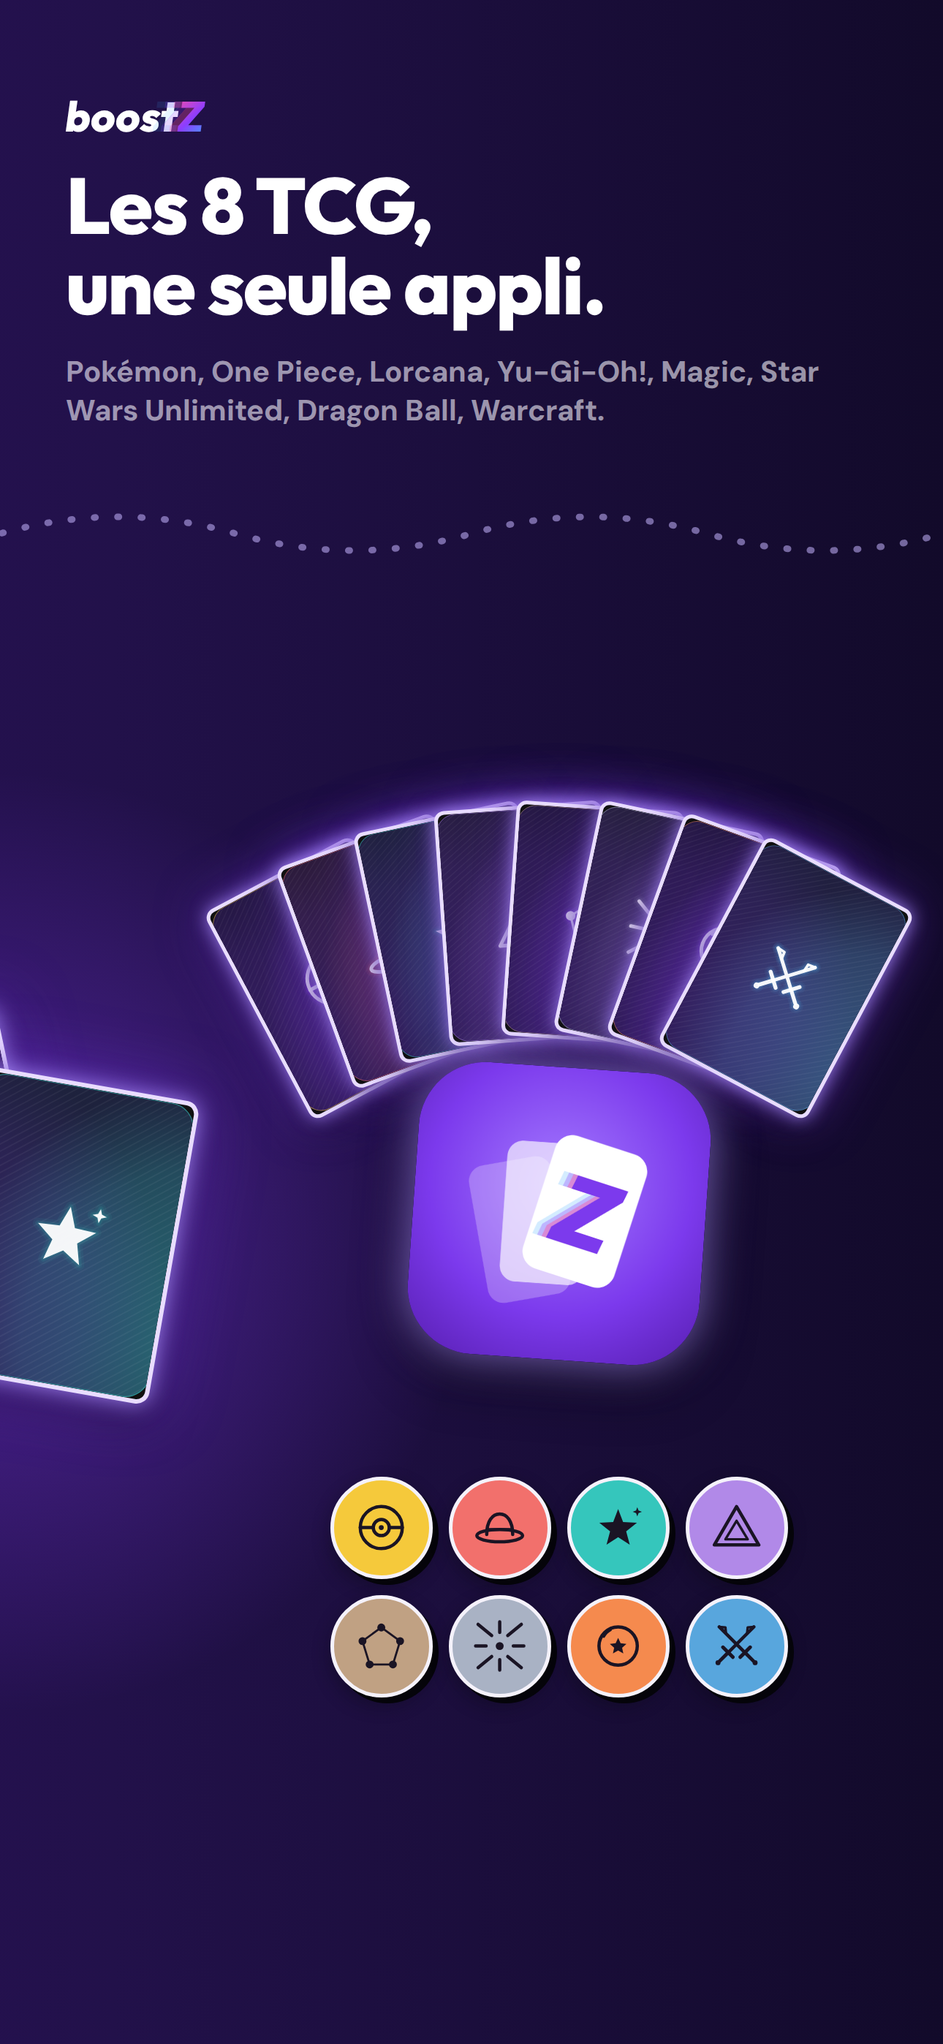
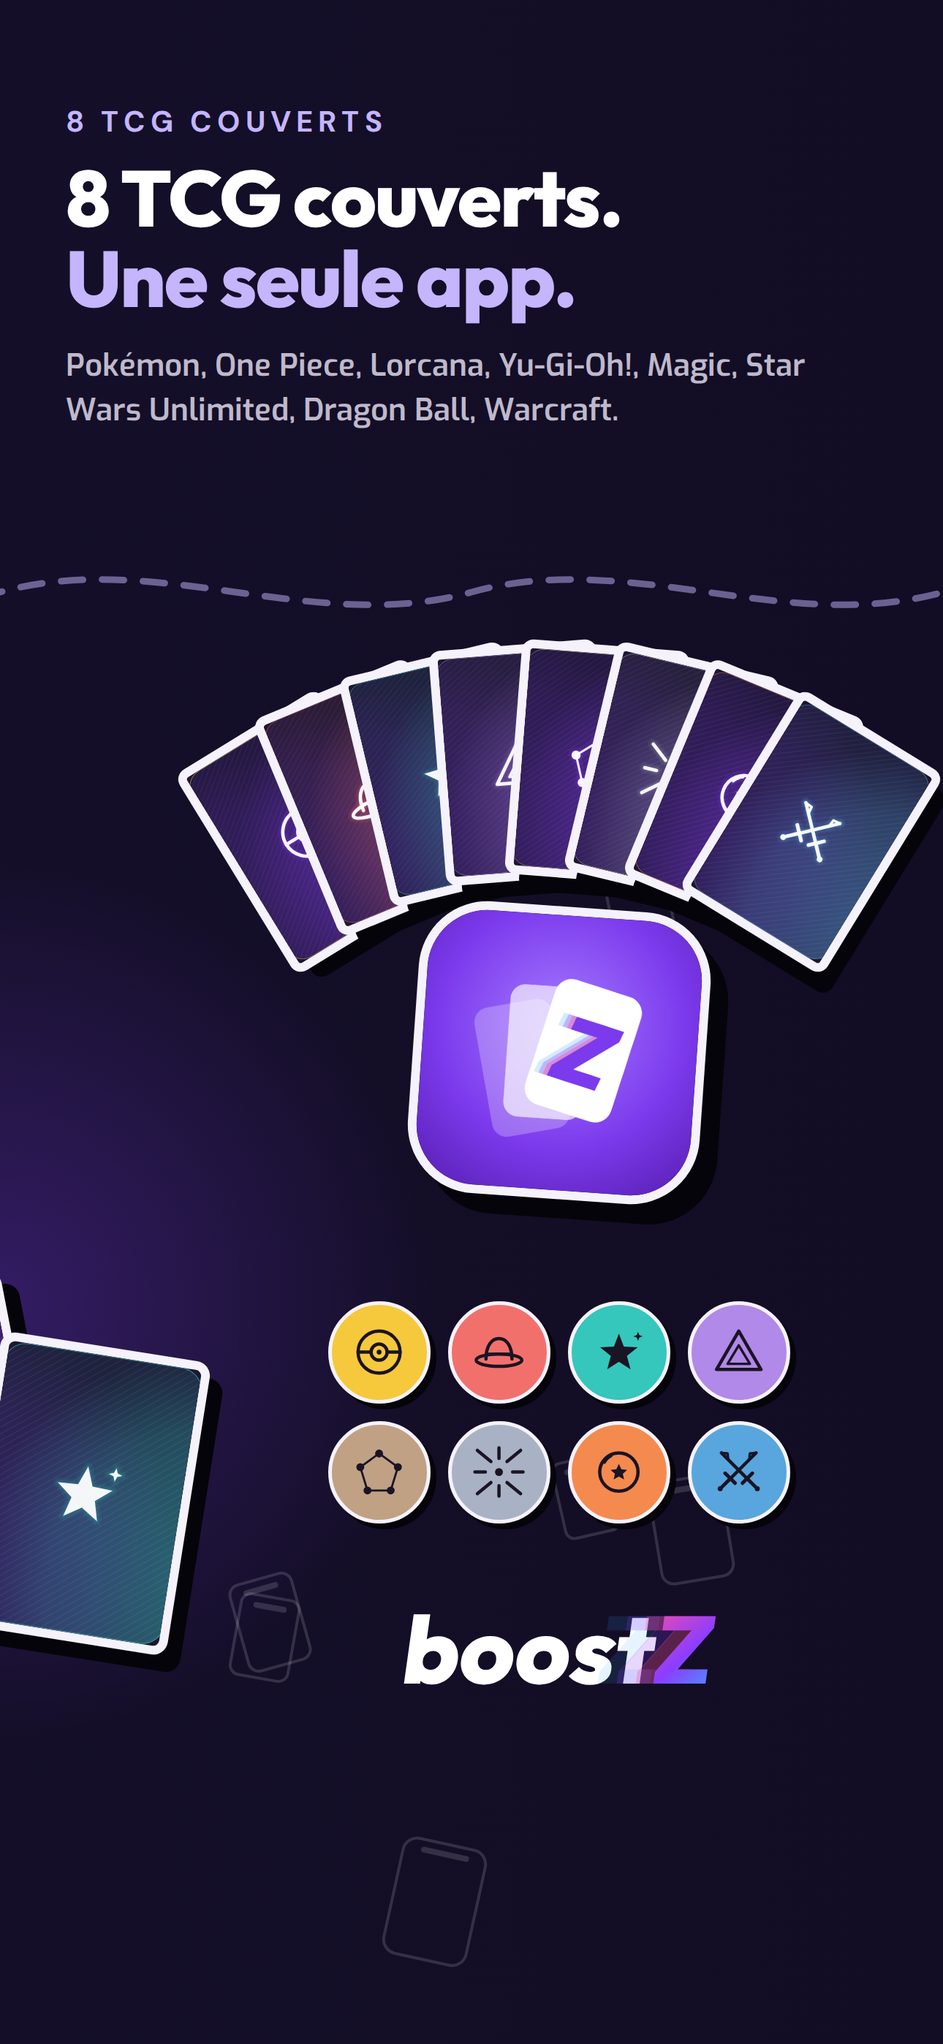
Align the store screenshots with boostz.fr's home page
TanPib asked for coherence with the site's home page and for the falling
cards of the app's login screen in the ground. Each screenshot is now
one of the site's numbered sections: its kicker in the section colour,
its title in white with the second line in the site's lavender, a line
of its copy; the phone, discs, panels and labels are stickers as on the
site; the ground carries CardRain's outlined cards across the panorama,
under the dashed wave, with the bridges kept at every second seam.

Claude-Session: https://claude.ai/code/session_01KYjmNhJZrtvo4jRtggkgV3

diff --git a/gabarits/store.html b/gabarits/store.html
@@ -23,71 +23,103 @@ document.head.insertAdjacentHTML('beforeend', `<style>
   .s { font-family: 'DM Sans'; font-weight: 700; text-align: center; }
   .hl { background: linear-gradient(120deg, #FF4FA0, #8B3DFF 55%, #3AA9FF); -webkit-background-clip: text; background-clip: text; color: transparent; }
 </style>`);
-// Layout (fourth round, 04/11/2026). TanPib: the text at the top, the phones
-// not always on the same side, and « que les 8 images se répondent ». So the
-// eight are one panorama: a continuous ground, the dashed path of our posts
-// running through all of them under the headlines, and at every second seam a
-// real card, a Boostie or card backs straddling two screenshots. The phone
-// alternates sides (left, tilted left; right, tilted right), which leaves the
-// seams with room on both sides free for those bridges.
-const PW = PLAY ? 700 : 880, PT = PLAY ? 660 : 800, N = 8;
-const PANOW = N * W;
-const phoneX = (k) => (k % 2 ? W - PW - 70 : 70), phoneR = (k) => (k % 2 ? 6 : -6);
-const FREE = (k) => (k % 2 ? 40 : W - (W - PW - 70) + 30); // left edge of the free column
-const text = (t, s) => `<div class="abs" style="left:90px;top:${PLAY ? 100 : 130}px;z-index:20">${wordmark(PLAY ? 50 : 58)}</div>
-  <div class="abs t" style="left:90px;right:90px;top:${PLAY ? 190 : 225}px;font-size:${PLAY ? 92 : 108}px;text-align:left;color:#fff;z-index:20">${t}</div>
-  <div class="abs s" style="left:90px;right:140px;top:${(PLAY ? 190 : 225) + (PLAY ? 92 : 108) * 2.1 + 30}px;font-size:${PLAY ? 34 : 40}px;line-height:1.32;text-align:left;font-weight:600;color:rgba(245,242,251,.62);z-index:20">${s}</div>`;
+// Layout (fifth round, 04/11/2026). TanPib: keep the panorama, but make it
+// coherent with boostz.fr's home page (its numbered sections, their colours,
+// titles and copy, the sticker phone and discs) and put the falling cards of
+// the app's login screen (mobile/src/components/CardRain.js: outlined cards
+// with a short bar, white at 14 %, tilted) in the ground.
+// Each screenshot is one section of the site: the kicker « 0N · SECTION » in
+// its colour, the title in white with its second line in the site's lavender,
+// one short line of the site's own copy; the phone as a sticker (white edge,
+// hard shadow), alternating sides; the eight share one ground, the rain, the
+// dashed wave, and a card, a Boostie or two card backs straddle every second seam.
+const PW = PLAY ? 620 : 760, PT = PLAY ? 720 : 880, N = 8, PANOW = N * W;
+const phoneX = (k) => (k % 2 ? W - PW - 80 : 80), phoneR = (k) => (k % 2 ? 4 : -4);
+const FREE = (k) => (k % 2 ? 50 : PW + 80 + 50);
+const TXT_BOTTOM = PT - (PLAY ? 90 : 110);
+const text = (kick, color, t, s) => `<div class="abs" style="left:90px;top:${PLAY ? 110 : 140}px;font-family:'DM Sans';font-weight:700;font-size:${PLAY ? 34 : 40}px;letter-spacing:.18em;text-transform:uppercase;color:${color};z-index:20">${kick}</div>
+  <div class="abs t" style="left:90px;right:90px;top:${PLAY ? 175 : 215}px;font-size:${PLAY ? 92 : 108}px;text-align:left;color:#fff;z-index:20">${t}</div>
+  <div class="abs" style="left:90px;right:120px;top:${(PLAY ? 175 : 215) + (PLAY ? 92 : 108) * 2.08 + 30}px;font-family:Exo;font-weight:600;font-size:${PLAY ? 36 : 42}px;line-height:1.45;color:#BFB9CB;z-index:20">${s}</div>`;
+const ACC = (x) => `<span style="color:#C4B5FD">${x}</span>`;
+const STB = PLAY ? 10 : 12, STS = PLAY ? 22 : 26; // sticker border and shadow at this scale
 const phone = (shot, k) => { const w = PW, h = w * 2.164;
-  return `<div class="abs" style="left:${phoneX(k)}px;top:${PT}px;width:${w}px;height:${h}px;transform:rotate(${phoneR(k)}deg);border-radius:${w * .13}px;background:#0B0812;border:${w * .006}px solid rgba(255,255,255,.18);box-shadow:0 ${w * .05}px ${w * .14}px rgba(11,8,18,.65);padding:${w * .026}px;z-index:5">
-    <div style="width:100%;height:100%;border-radius:${w * .105}px;overflow:hidden;background:#0B0812"><img src="shots/app-${shot}.jpg" style="width:100%;display:block"></div></div>`; };
-const glowCard = (src, x, y, w, r, z = 8) => `<div class="abs" style="left:${x}px;top:${y}px;width:${w}px;height:${w * 1.4}px;transform:rotate(${r}deg);border:${w * .022}px solid #E9DDFF;border-radius:${w * .06}px;overflow:hidden;box-shadow:0 0 ${w * .1}px rgba(167,139,250,.9), 0 0 ${w * .3}px rgba(124,58,237,.55), 0 ${w * .08}px ${w * .2}px rgba(11,8,18,.6);z-index:${z};background:#111"><img src="${src}" style="width:100%;height:100%;object-fit:cover;display:block"></div>`;
-const real = (img, x, y, w, r, z) => glowCard('assets/' + img, x, y, w, r, z);
-const dos = (g, x, y, w, r, z) => glowCard(`assets/dos-${g}.svg`, x, y, w, r, z);
-const label = (x, y, html, o = {}) => `<div class="abs ui" style="left:${x}px;top:${y}px;padding:${o.pad || '22px 34px'};background:${o.bg || '#fff'};color:${o.c || INKD};font-size:${o.fs || 46}px;border-radius:28px;box-shadow:0 0 40px rgba(124,58,237,.5), 0 18px 40px rgba(11,8,18,.4);transform:rotate(${o.r || 0}deg);white-space:nowrap;z-index:${o.z || 9}">${html}</div>`;
+  return `<div class="abs" style="left:${phoneX(k)}px;top:${PT}px;width:${w}px;height:${h}px;transform:rotate(${phoneR(k)}deg);border-radius:${w * .14}px;background:#1D1730;border:${STB}px solid ${INK};box-shadow:${STS}px ${STS}px 0 ${SHADOW};overflow:hidden;z-index:5"><img src="shots/app-${shot}.jpg" style="width:100%;display:block"></div>`; };
+// Stickers as on the site: a card, a disc with an icon, a small panel, a label.
+const stc = (src, x, y, w, r, z = 9) => `<div class="abs" style="left:${x}px;top:${y}px;width:${w}px;height:${w * 1.4}px;transform:rotate(${r}deg);border:${STB}px solid ${INK};border-radius:${w * .07}px;box-shadow:${STS * .8}px ${STS * .8}px 0 ${SHADOW};overflow:hidden;z-index:${z};background:#1D1730"><img src="${src}" style="width:100%;height:100%;object-fit:cover;display:block"></div>`;
+const real = (img, x, y, w, r, z) => stc('assets/' + img, x, y, w, r, z);
+const dos = (g, x, y, w, r, z) => stc(`assets/dos-${g}.svg`, x, y, w, r, z);
+const sdisc = (x, y, d, bg, svg, z = 9) => `<div class="abs" style="left:${x}px;top:${y}px;width:${d}px;height:${d}px;border-radius:50%;background:${bg};border:${STB}px solid ${INK};box-shadow:${STS * .7}px ${STS * .7}px 0 ${SHADOW};display:flex;align-items:center;justify-content:center;z-index:${z}">${svg}</div>`;
+const ico = (d, size = 120) => `<svg width="${size}" height="${size}" viewBox="0 0 24 24" fill="none" stroke="#1A1424" stroke-width="2.4" stroke-linecap="round" stroke-linejoin="round">${d}</svg>`;
+const panel = (x, y, w, inner, r = 0, z = 9) => `<div class="abs" style="left:${x}px;top:${y}px;width:${w}px;padding:${PLAY ? '26px 30px' : '30px 36px'};background:#1D1730;border:${STB}px solid ${INK};border-radius:44px;box-shadow:${STS}px ${STS}px 0 ${SHADOW};transform:rotate(${r}deg);z-index:${z}">${inner}</div>`;
+const pl = (t) => `<div class="ui" style="font-size:${PLAY ? 30 : 34}px;color:#A8A2B8">${t}</div>`;
 const B = 'M39.9 25.2 Q39.9 22.4 42.7 22.4 L44.3 22.4 Q47.1 22.4 47.1 25.2 L47.1 39.9 Q49.9 37.8 53.6 37.8 Q59.4 37.8 63.1 41.9 Q66.8 46 66.8 52.9 Q66.8 59.8 63.1 63.9 Q59.4 68 53.6 68 Q49.6 68 46.8 65.6 L46.8 65.7 Q46.6 68 44 68 L42.7 68 Q39.9 68 39.9 65.2 Z M53.2 44.4 Q50.1 44.4 48.2 46.7 Q46.3 49 46.3 52.9 Q46.3 56.8 48.2 59.1 Q50.1 61.4 53.2 61.4 Q56.3 61.4 58.2 59.1 Q60.1 56.8 60.1 52.9 Q60.1 49 58.2 46.7 Q56.3 44.4 53.2 44.4 Z';
 let cid = 0;
-const coin = (x, y, d, r = 0, z = 9) => { const g = 'cg' + cid++; return `<svg class="abs" width="${d}" height="${d}" viewBox="0 0 100 100" style="left:${x}px;top:${y}px;transform:rotate(${r}deg);z-index:${z};filter:drop-shadow(0 ${d * .08}px ${d * .12}px rgba(11,8,18,.5));overflow:visible"><defs><linearGradient id="${g}" x1="0" y1="0" x2="1" y2="1"><stop offset="0" stop-color="#FFD84D"/><stop offset="1" stop-color="#E08A00"/></linearGradient></defs><circle cx="50" cy="50" r="47" fill="url(#${g})"/><circle cx="50" cy="50" r="37" fill="none" stroke="rgba(255,255,255,.5)" stroke-width="3"/><g transform="translate(50 46) scale(1.25) translate(-53 -45)"><path d="${B}" fill="#fff"/></g></svg>`; };
+const coin = (x, y, d, r = 0, z = 9) => { const g = 'cg' + cid++; return `<svg class="abs" width="${d}" height="${d}" viewBox="0 0 100 100" style="left:${x}px;top:${y}px;transform:rotate(${r}deg);z-index:${z};filter:drop-shadow(${d * .07}px ${d * .07}px 0 ${SHADOW});overflow:visible"><defs><linearGradient id="${g}" x1="0" y1="0" x2="1" y2="1"><stop offset="0" stop-color="#FFD84D"/><stop offset="1" stop-color="#E08A00"/></linearGradient></defs><circle cx="50" cy="50" r="46" fill="url(#${g})" stroke="${INK}" stroke-width="5"/><circle cx="50" cy="50" r="36" fill="none" stroke="rgba(255,255,255,.5)" stroke-width="3"/><g transform="translate(50 46) scale(1.25) translate(-53 -45)"><path d="${B}" fill="#fff"/></g></svg>`; };
+const label = (x, y, html, o = {}) => `<div class="abs ui" style="left:${x}px;top:${y}px;padding:${o.pad || '20px 32px'};background:${o.bg || SUN};color:${o.c || DARK};font-size:${o.fs || (PLAY ? 40 : 46)}px;line-height:1.1;border:${STB}px solid ${INK};border-radius:34px;box-shadow:${STS * .8}px ${STS * .8}px 0 ${SHADOW};transform:rotate(${o.r || 0}deg);white-space:nowrap;z-index:${o.z || 10}">${html}</div>`;
 
-// The panorama, drawn once in panorama coordinates (x from 0 to 8 W) and shown
-// through each screenshot at its own offset.
-const seam = (k) => (k + 1) * W; // between screenshot k and k + 1
-const PY = PT - (PLAY ? 50 : 70);
-const path = (() => { let d = `M 0 ${PY}`; for (let i = 0; i < N * 4; i++) { const x0 = i * W / 4, x1 = x0 + W / 4; d += ` Q ${x0 + W / 8} ${PY + (i % 2 ? 46 : -46)} ${x1} ${PY}`; } return d; })();
-const PANO = `<div class="abs" style="left:0;top:0;width:${PANOW}px;height:${H}px;background:linear-gradient(90deg, #120A2A 0%, #22114A 14%, #2A1458 27%, #1A1440 40%, #112045 52%, #1F1048 64%, #2E1065 77%, #22114A 89%, #120A2A 100%)"></div>
-  ${[0, 2, 4, 6].map((k) => `<div class="abs" style="left:${seam(k) - 700}px;top:${PT + 200}px;width:1400px;height:1400px;border-radius:50%;background:radial-gradient(circle, rgba(139,61,255,.42), rgba(139,61,255,0) 65%)"></div>`).join('')}
-  <svg class="abs" width="${PANOW}" height="${H}" style="left:0;top:0;z-index:4"><path d="${path}" fill="none" stroke="rgba(196,181,253,.55)" stroke-width="9" stroke-linecap="round" stroke-dasharray="2 30"/></svg>`;
+// The panorama: ground, the login screen's card rain, the dashed wave, bridges.
+const seam = (k) => (k + 1) * W;
+const rnd = (() => { let x = 7; return () => (x = (x * 9301 + 49297) % 233280) / 233280; })();
+const RAIN = Array.from({ length: N * 13 }, (_, i) => { const h = (PLAY ? 70 : 84) + rnd() * (PLAY ? 70 : 84), x = rnd() * PANOW, y = TXT_BOTTOM + 40 + rnd() * (H - TXT_BOTTOM - 40), r = (rnd() < .5 ? -1 : 1) * (6 + rnd() * 10);
+  return `<div class="abs" style="left:${x}px;top:${y}px;width:${h * .72}px;height:${h}px;border:${PLAY ? 4 : 4.5}px solid rgba(255,255,255,.14);border-radius:${h * .13}px;transform:rotate(${r}deg)"><div style="width:60%;height:${PLAY ? 7 : 8}px;margin:${PLAY ? 7 : 8}px auto 0;border-radius:4px;background:rgba(255,255,255,.14)"></div></div>`; }).join('');
+const WY = TXT_BOTTOM + (PLAY ? 30 : 40);
+const wave = (() => { let d = `M 0 ${WY}`; for (let i = 0; i < N * 2; i++) { const x0 = i * W / 2; d += ` C ${x0 + W / 6} ${WY - 60} ${x0 + W / 3} ${WY + 60} ${x0 + W / 2} ${WY}`; } return d; })();
+const PANO = `<div class="abs" style="left:0;top:0;width:${PANOW}px;height:${H}px;background:linear-gradient(90deg, #120D24, #17112E 25%, #1A1336 50%, #17112E 75%, #120D24)"></div>
+  ${[0, 2, 4, 6].map((k) => `<div class="abs" style="left:${seam(k) - 650}px;top:${PT + 250}px;width:1300px;height:1300px;border-radius:50%;background:radial-gradient(circle, rgba(124,58,237,.30), rgba(124,58,237,0) 65%)"></div>`).join('')}
+  ${RAIN}
+  <svg class="abs" width="${PANOW}" height="${H}" style="left:0;top:0;z-index:4"><path d="${wave}" fill="none" stroke="rgba(196,181,253,.5)" stroke-width="${PLAY ? 8 : 9}" stroke-linecap="round" stroke-dasharray="${PLAY ? '26 22' : '30 26'}"/></svg>`;
+const BY = PT + (PLAY ? 760 : 920);
 const BRIDGES = [
-  real('carte-dracaufeu-ex-sv035-199.jpg', seam(0) - 200, PT + 640, PLAY ? 360 : 400, 9, 9),
-  real('carte-luffy-op05-119-p1-jp.png', seam(2) - 190, PT + 560, PLAY ? 340 : 380, -8, 9),
-  coin(seam(4) - 170, PT + 640, 340, -12) + coin(seam(4) - 330, PT + 1040, 150, 16) + coin(seam(4) + 200, PT + 380, 120, -20),
-  dos('pokemon', seam(6) - 260, PT + 600, 300, -12, 8) + dos('lorcana', seam(6) - 60, PT + 680, 300, 10, 9),
+  real('carte-dracaufeu-ex-sv035-199.jpg', seam(0) - 190, BY, PLAY ? 340 : 380, 8),
+  real('carte-luffy-op05-119-p1-jp.png', seam(2) - 180, BY - 60, PLAY ? 330 : 360, -7),
+  coin(seam(4) - 165, BY, PLAY ? 290 : 330, -12) + coin(seam(4) + 170, BY + (PLAY ? 330 : 380), 130, 16),
+  dos('pokemon', seam(6) - 250, BY - 40, PLAY ? 260 : 290, -11, 8) + dos('lorcana', seam(6) - 30, BY + 40, PLAY ? 260 : 290, 9, 9),
 ].join('');
 const pano = (k) => `<div class="abs" style="left:${-k * W}px;top:0;width:${PANOW}px;height:${H}px">${PANO}<div class="abs" style="left:0;top:0;width:${PANOW}px;height:${H}px;z-index:9">${BRIDGES}</div></div>`;
-// Per screenshot, on its free side, higher than the bridges.
 const S = [];
 const add = (id, k, inner) => S.push([id, `${pano(k)}${inner}`]);
-const FY = PT + (PLAY ? 120 : 160);
+const FY = PT + (PLAY ? 80 : 100), FW = W - PW - 80 - 50 - 50; // the free column's top and width
 
-add('1-collection', 0, `${phone('accueil', 0)}${label(FREE(0), FY, '<span style="color:#1E9E6A">▲ +21,9 %</span><br><span style="font-size:.7em">en 30 jours</span>', { r: 5, fs: 50 })}
-  ${text('Ta collection,<br>sa vraie valeur.', 'Tes cartes de 8 TCG au même endroit, avec leur cote du jour.')}`);
-add('2-invest', 1, `${phone('invest', 1)}${label(FREE(1), FY, '149,80 €', { bg: V, c: '#fff', r: -5, fs: 58 })}
-  ${text('Ton portefeuille TCG,<br>jeu par jeu.', 'Ce que pèse chaque jeu et chaque langue, et comment ça évolue.')}`);
-add('3-vitrine', 2, `${phone('vitrine', 2)}${real('carte-hyperia-241-mickey.jpg', FREE(2) + 20, FY - 30, PLAY ? 260 : 290, 7, 7)}
-  ${text('Montre ta vitrine.', 'Tes plus belles cartes et tes scellés, rangés comme dans un classeur.')}`);
-add('4-langues', 3, `${phone('langues', 3)}<div class="abs" style="left:${FREE(3) + 10}px;top:${FY}px;display:flex;flex-direction:column;gap:24px;z-index:8">${['fr', 'en', 'ja'].map((c, i) => `<img src="assets/drapeau-${c}.svg" style="width:${PLAY ? 170 : 190}px;height:${PLAY ? 113 : 126}px;object-fit:cover;border-radius:16px;box-shadow:0 12px 28px rgba(11,8,18,.45);transform:rotate(${[-5, 3, -2][i]}deg)">`).join('')}</div>
-  ${text('Français, anglais,<br>japonais.', 'Choisis les langues que tu collectionnes, jeu par jeu.')}`);
-add('5-missions', 4, `${phone('missions', 4)}${label(FREE(4), FY, '+ 35<br><span style="font-size:.7em">Boosties</span>', { bg: SUN, c: DARK, r: 5, fs: 56 })}
-  ${text('Gagne des Boosties<br>chaque jour.', 'Des missions simples, une série de connexions, des récompenses.')}`);
-add('6-parrainage', 5, `${phone('parrainage', 5)}${label(FREE(5), FY, '150<br><span style="font-size:.6em">pour lui</span>', { bg: V, c: '#fff', r: -5, fs: 60 })}${label(FREE(5) + 30, FY + (PLAY ? 230 : 260), '100<br><span style="font-size:.6em">pour toi</span>', { bg: SUN, c: DARK, r: 4, fs: 60 })}
-  ${text('Invite tes potes,<br>gagnez des Boosties.', 'Ton code : 150 Boosties pour ton filleul, 100 pour toi.')}`);
-add('7-pass', 6, `${phone('pass', 6)}${label(FREE(6), FY, '2,99 €<div style="font-size:.4em">par mois</div><div style="font-size:.3em;font-weight:600;margin-top:6px">jusqu’au 31/12/2027,<br>puis 4,99 €</div>', { bg: SUN, c: DARK, r: 5, fs: 76, pad: '20px 28px' })}
-  ${text('Va plus loin<br>avec le Pass.', 'En option : les 8 jeux, 30 alertes, 15 pré‑estimations par 30 jours, une wishlist de 30.')}`);
+add('1-collection', 0, `${phone('accueil', 0)}
+  ${sdisc(FREE(0) + 40, FY, PLAY ? 170 : 200, '#C4B5FD', ico('<path d="M4 8V4h4M16 4h4v4M20 16v4h-4M8 20H4v-4M4 12h16"/>', PLAY ? 80 : 96))}
+  ${panel(FREE(0) - 20, FY + (PLAY ? 230 : 270), FW + 20, `${pl('Progression')}<div style="height:18px;border-radius:9px;background:#2A2140;margin-top:16px;overflow:hidden"><div style="width:62%;height:100%;background:#5FD3A3;border-radius:9px"></div></div>`, 3)}
+  ${text('01 · Collection', '#C4B5FD', `Ta collection,<br>${ACC('rangée toute seule.')}`, 'Chaque carte scannée est reconnue et rangée.')}`);
+
+add('2-langues', 1, `${phone('langues', 1)}
+  <div class="abs" style="left:${FREE(1) + 10}px;top:${FY}px;display:flex;flex-direction:column;gap:${PLAY ? 26 : 32}px;z-index:9">${['fr', 'en', 'ja'].map((c, i) => `<img src="assets/drapeau-${c}.svg" style="width:${PLAY ? 190 : 220}px;height:${PLAY ? 126 : 146}px;object-fit:cover;border:${STB}px solid ${INK};border-radius:22px;box-shadow:${STS * .7}px ${STS * .7}px 0 ${SHADOW};transform:rotate(${[-5, 4, -3][i]}deg)">`).join('')}</div>
+  ${text('02 · Langues', '#FF7AB8', `Ta langue,<br>${ACC('ta cote.')}`, 'Une carte japonaise et la même en français n’ont pas le même prix.')}`);
+
+add('3-investissement', 2, `${phone('invest', 2)}
+  ${label(FREE(2), FY, '149,80 €', { bg: '#5FD3A3', r: 4, fs: PLAY ? 54 : 62 })}
+  ${panel(FREE(2) - 10, FY + (PLAY ? 200 : 240), FW + 10, `${pl('En 30 jours')}<div class="ui" style="font-size:${PLAY ? 46 : 54}px;color:#5FD3A3;margin-top:8px;white-space:nowrap">▲ +24,8&nbsp;%</div>`, -3)}
+  ${text('03 · Investissement', '#5FD3A3', `Ce que vaut<br>${ACC('ta collection.')}`, 'La cote de tes cartes et de tes scellés, jeu par jeu.')}`);
+
+add('4-vitrine', 3, `${phone('vitrine', 3)}
+  ${real('carte-hyperia-241-mickey.jpg', FREE(3) + 20, FY - 20, PLAY ? 250 : 290, -6)}
+  ${sdisc(FREE(3) + (PLAY ? 120 : 140), FY + (PLAY ? 380 : 440), PLAY ? 150 : 170, SUN, ico('<path d="M12 3l2.7 5.6 6.1.9-4.4 4.3 1 6.1L12 17l-5.4 2.9 1-6.1L3.2 9.5l6.1-.9z"/>', PLAY ? 70 : 82))}
+  ${text('Ta vitrine', '#F0C066', `Tes plus belles cartes,<br>${ACC('bien rangées.')}`, 'Tes cartes et tes scellés, comme dans un classeur.')}`);
+
+add('5-missions', 4, `${phone('missions', 4)}
+  ${label(FREE(4), FY, '+ 35<br>Boosties', { r: 4 })}
+  ${panel(FREE(4) - 10, FY + (PLAY ? 190 : 220), FW + 10, `${pl('Aujourd’hui')}<div class="ui" style="font-size:${PLAY ? 46 : 54}px;color:#F0C066;margin-top:8px;white-space:nowrap">55 / 100</div>`, -3)}
+  ${text('08 · Missions et Boosties', '#F0C066', `Relève des missions,<br>${ACC('gagne des Boosties.')}`, 'Missions, hauts faits, cartes ajoutées au catalogue : tout rapporte.')}`);
+
+add('6-parrainage', 5, `${phone('parrainage', 5)}
+  ${label(FREE(5), FY, '150 pour lui', { bg: '#C4B5FD', r: -5 })}${label(FREE(5) + 20, FY + (PLAY ? 170 : 200), '100 pour toi', { r: 4 })}
+  ${text('09 · Parrainage', '#C4B5FD', `Invite tes amis,<br>${ACC('gagnez tous les deux.')}`, 'Ton ami reçoit 150 Boosties, et toi 100.')}`);
+
+add('7-pass', 6, `${phone('pass', 6)}
+  ${label(FREE(6), FY, '2,99 €<span style="font-size:.55em"> /mois</span>', { r: 4, fs: PLAY ? 58 : 66 })}
+  ${panel(FREE(6) - 10, FY + (PLAY ? 210 : 250), FW + 10, `${pl('Prix de lancement')}<div class="ui" style="font-size:${PLAY ? 32 : 36}px;color:#F5C542;margin-top:8px;line-height:1.25">jusqu’au<br>31/12/2027</div>`, -3)}
+  ${text('10 · BoostZ Pass', '#F5C542', `Le compte est gratuit,<br>${ACC('le Pass en option.')}`, 'Les 8 jeux, 30 alertes, 15 pré‑estimations par 30 jours, une wishlist de 30.')}`);
+
 const games8 = ['pokemon', 'onepiece', 'lorcana', 'yugioh', 'magic', 'starwarsunlimited', 'dragonball', 'wow'];
-const CX = W / 2 + 120, CY = PT + (PLAY ? 240 : 300), FW = PLAY ? 200 : 230;
-add('8-huit-tcg', 7, `${games8.map((g, i) => { const a = (i - 3.5) * 8, rad = a * Math.PI / 180, R = PLAY ? 560 : 660; return dos(g, CX - FW / 2 + Math.sin(rad) * R, CY + R - Math.cos(rad) * R, FW, a, 2 + i); }).join('')}
-  <img class="abs" src="assets/icone-app.png" style="left:${CX - (PLAY ? 170 : 200)}px;top:${CY + (PLAY ? 300 : 360)}px;width:${PLAY ? 340 : 400}px;border-radius:${PLAY ? 78 : 92}px;box-shadow:0 0 60px rgba(167,139,250,.7), 0 30px 70px rgba(11,8,18,.6);transform:rotate(4deg);z-index:20">
-  <div class="abs" style="left:${CX - 2 * ((PLAY ? 120 : 140) + (PLAY ? 18 : 22))}px;width:${4 * ((PLAY ? 120 : 140) + (PLAY ? 18 : 22))}px;top:${CY + (PLAY ? 780 : 920)}px;display:flex;flex-wrap:wrap;justify-content:center;gap:${PLAY ? 18 : 22}px;z-index:20">${games8.map((g) => `<div style="border-radius:50%;box-shadow:0 10px 24px rgba(11,8,18,.4)">${emblemDisc(g, PLAY ? 120 : 140)}</div>`).join('')}</div>
-  ${text('Les 8 TCG,<br>une seule appli.', 'Pokémon, One Piece, Lorcana, Yu-Gi-Oh!, Magic, Star Wars Unlimited, Dragon Ball, Warcraft.')}`);
+const CX = W / 2 + 120, CY = PT - (PLAY ? 20 : 0), CW = PLAY ? 200 : 230;
+add('8-huit-tcg', 7, `${games8.map((g, i) => { const a = (i - 3.5) * 9, rad = a * Math.PI / 180, R = PLAY ? 560 : 660; return dos(g, CX - CW / 2 + Math.sin(rad) * R, CY + R - Math.cos(rad) * R, CW, a, 2 + i); }).join('')}
+  <img class="abs" src="assets/icone-app.png" style="left:${CX - (PLAY ? 170 : 200)}px;top:${CY + (PLAY ? 300 : 360)}px;width:${PLAY ? 340 : 400}px;border:${STB}px solid ${INK};border-radius:${PLAY ? 80 : 94}px;box-shadow:${STS}px ${STS}px 0 ${SHADOW};transform:rotate(4deg);z-index:20">
+  <div class="abs" style="left:${CX - 2 * ((PLAY ? 120 : 140) + 24)}px;width:${4 * ((PLAY ? 120 : 140) + 24)}px;top:${CY + (PLAY ? 760 : 900)}px;display:flex;flex-wrap:wrap;justify-content:center;gap:24px;z-index:20">${games8.map((g) => emblemDisc(g, PLAY ? 120 : 140)).join('')}</div>
+  <div class="abs" style="left:${CX - 400}px;width:800px;top:${CY + (PLAY ? 1110 : 1310)}px;display:flex;justify-content:center;z-index:20">${wordmark(PLAY ? 110 : 130)}</div>
+  ${text('8 TCG couverts', '#C4B5FD', `8 TCG couverts.<br>${ACC('Une seule app.')}`, 'Pokémon, One Piece, Lorcana, Yu-Gi-Oh!, Magic, Star Wars Unlimited, Dragon Ball, Warcraft.')}`);
 
 carousel(S);
 </script></body></html>
